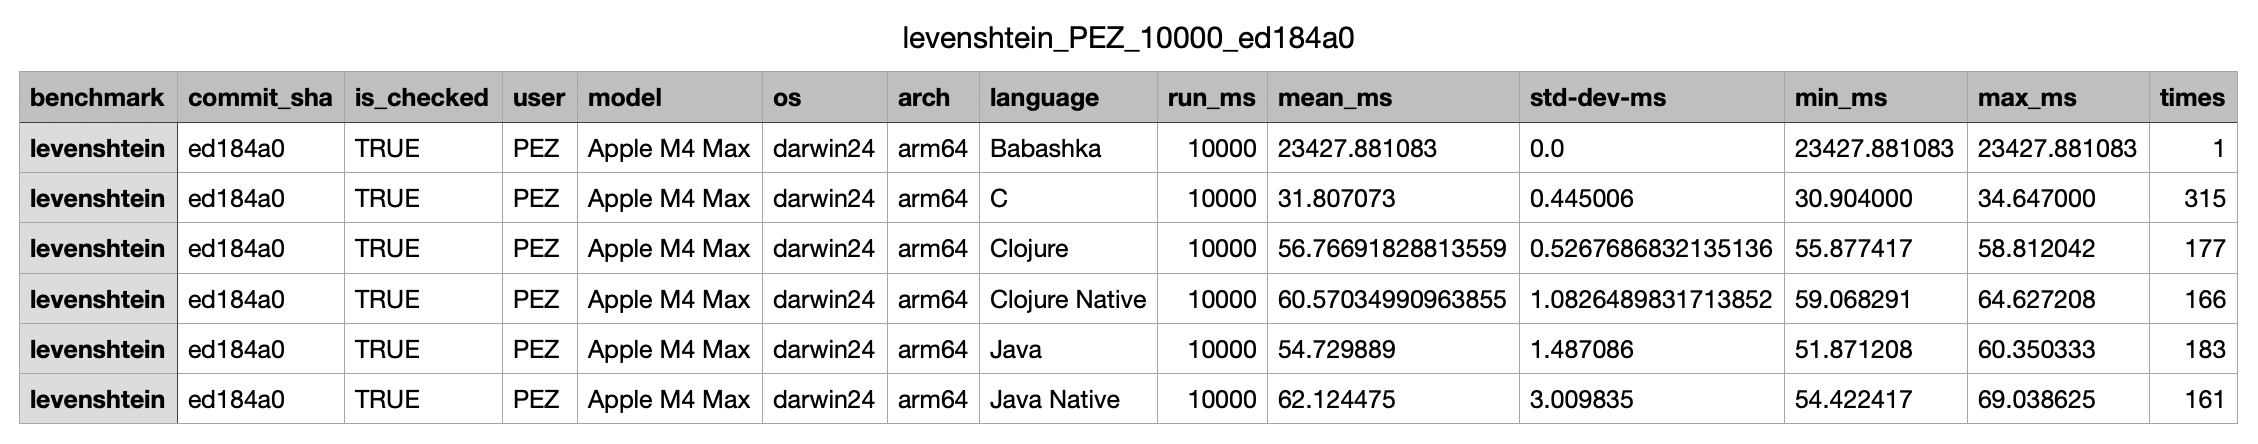
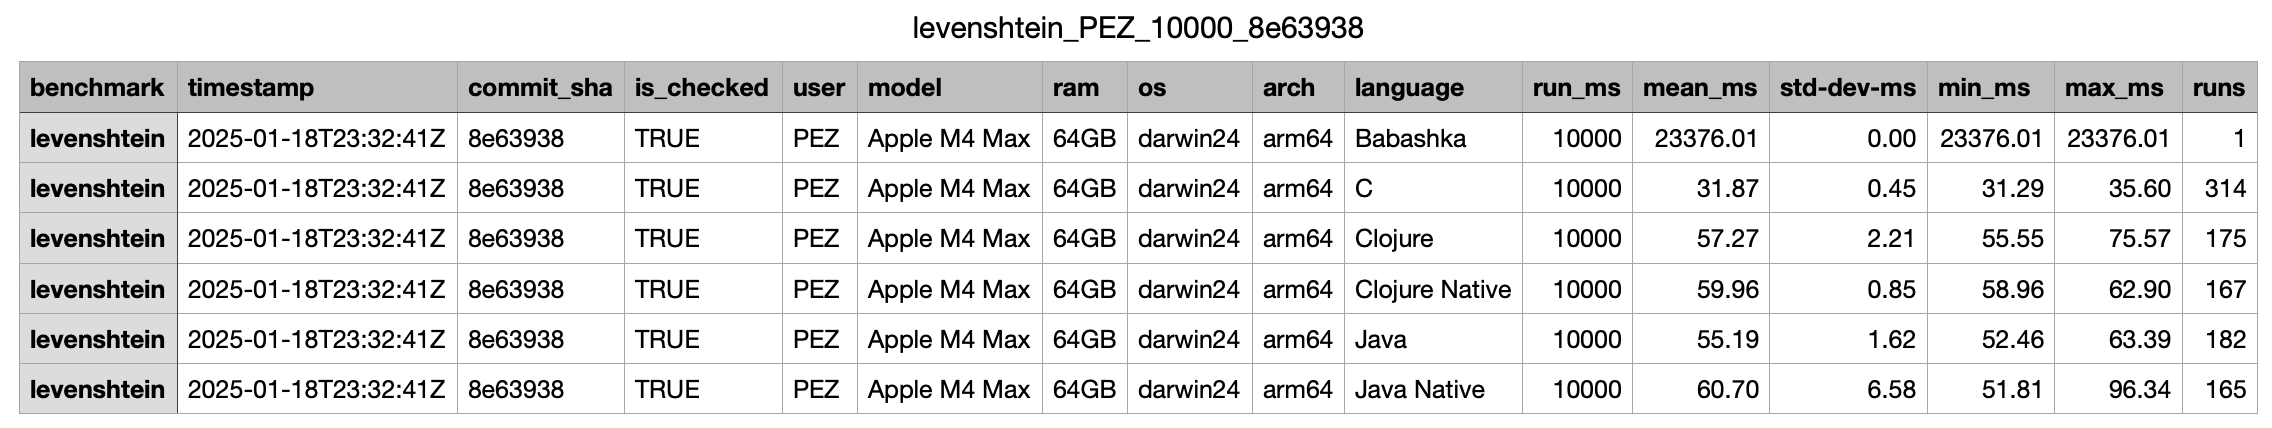
in-process-benching: Add timestamp and RAM to results CSV

Changed region(s): [[0.0, 0.0304, 1.0, 0.6075], [0.0, 0.6379, 0.992, 0.8505], [0.0, 0.8808, 0.992, 0.972]]

diff --git a/README.md b/README.md
@@ -107,16 +107,16 @@ The new run script is named [run-benchmark.sh](run-benchmark.sh). Let's say we r
 The default run time is `10000` ms. `-u` sets the user name (preferably your GitHub handle). The output was this:
 
 ```csv
-benchmark,commit_sha,is_checked,user,model,os,arch,language,run_ms,mean_ms,std-dev-ms,min_ms,max_ms,times
-levenshtein,ed184a0,true,PEZ,Apple M4 Max,darwin24,arm64,Babashka,10000,23427.881083,0.0,23427.881083,23427.881083,1
-levenshtein,ed184a0,true,PEZ,Apple M4 Max,darwin24,arm64,C,10000,31.807073,0.445006,30.904000,34.647000,315
-levenshtein,ed184a0,true,PEZ,Apple M4 Max,darwin24,arm64,Clojure,10000,56.76691828813559,0.5267686832135136,55.877417,58.812042,177
-levenshtein,ed184a0,true,PEZ,Apple M4 Max,darwin24,arm64,Clojure Native,10000,60.57034990963855,1.0826489831713852,59.068291,64.627208,166
-levenshtein,ed184a0,true,PEZ,Apple M4 Max,darwin24,arm64,Java,10000,54.729889,1.487086,51.871208,60.350333,183
-levenshtein,ed184a0,true,PEZ,Apple M4 Max,darwin24,arm64,Java Native,10000,62.124475,3.009835,54.422417,69.038625,161
+benchmark,timestamp,commit_sha,is_checked,user,model,ram,os,arch,language,run_ms,mean_ms,std-dev-ms,min_ms,max_ms,runs
+levenshtein,2025-01-18T23:32:41Z,8e63938,true,PEZ,Apple M4 Max,64GB,darwin24,arm64,Babashka,10000,23376.012916,0.0,23376.012916,23376.012916,1
+levenshtein,2025-01-18T23:32:41Z,8e63938,true,PEZ,Apple M4 Max,64GB,darwin24,arm64,C,10000,31.874277,0.448673,31.286000,35.599000,314
+levenshtein,2025-01-18T23:32:41Z,8e63938,true,PEZ,Apple M4 Max,64GB,darwin24,arm64,Clojure,10000,57.27048066857143,2.210445845051782,55.554958,75.566792,175
+levenshtein,2025-01-18T23:32:41Z,8e63938,true,PEZ,Apple M4 Max,64GB,darwin24,arm64,Clojure Native,10000,59.95592388622754,0.8493245545620596,58.963833,62.897834,167
+levenshtein,2025-01-18T23:32:41Z,8e63938,true,PEZ,Apple M4 Max,64GB,darwin24,arm64,Java,10000,55.194704,1.624322,52.463125,63.390833,182
+levenshtein,2025-01-18T23:32:41Z,8e63938,true,PEZ,Apple M4 Max,64GB,darwin24,arm64,Java Native,10000,60.704966,6.579482,51.807750,96.343541,165
 ```
 
-It's a CSV file you can open in something Excel-ish or consume with your favorite language.
+It's a CSV file you can open in something Excel-ish, or consume with your favorite programming language.
 
 ![Example Result CSV in Numbers.app](docs/example-results-csv.png)
 
